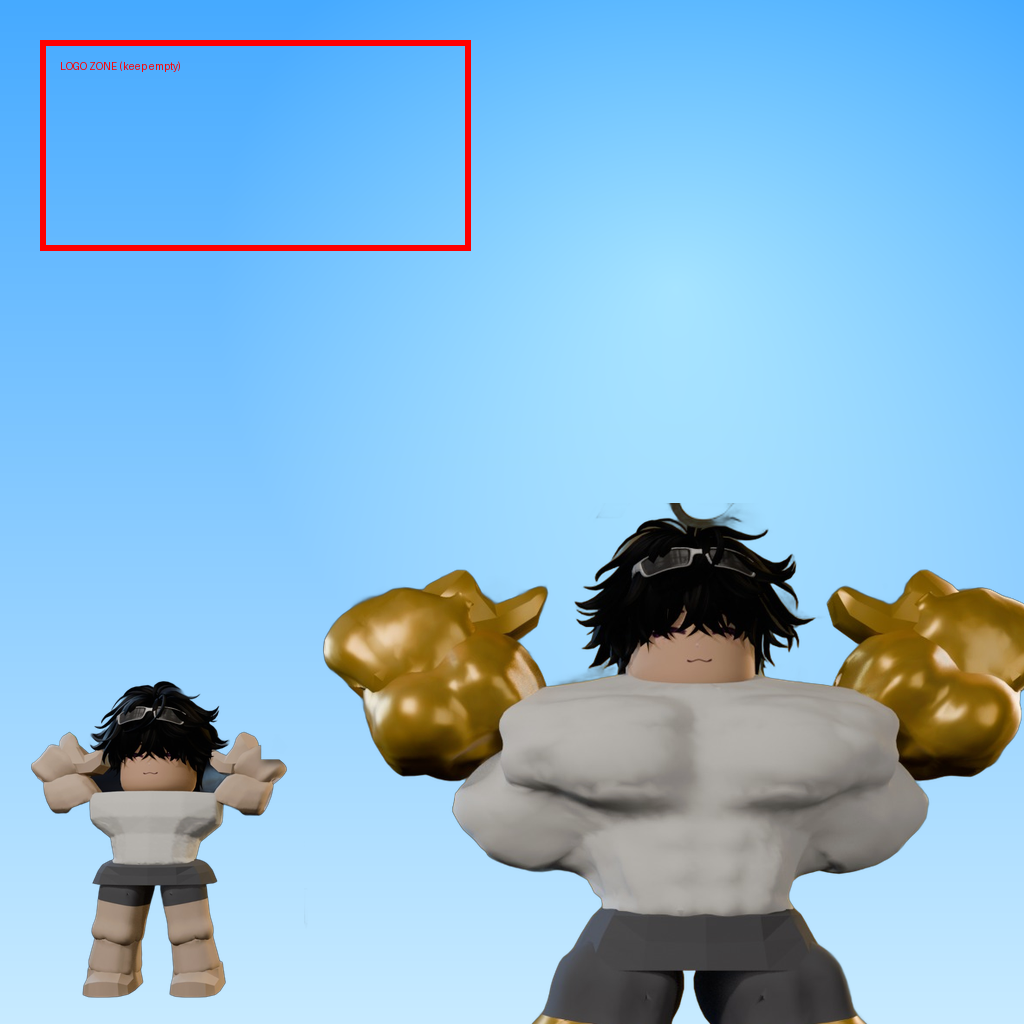
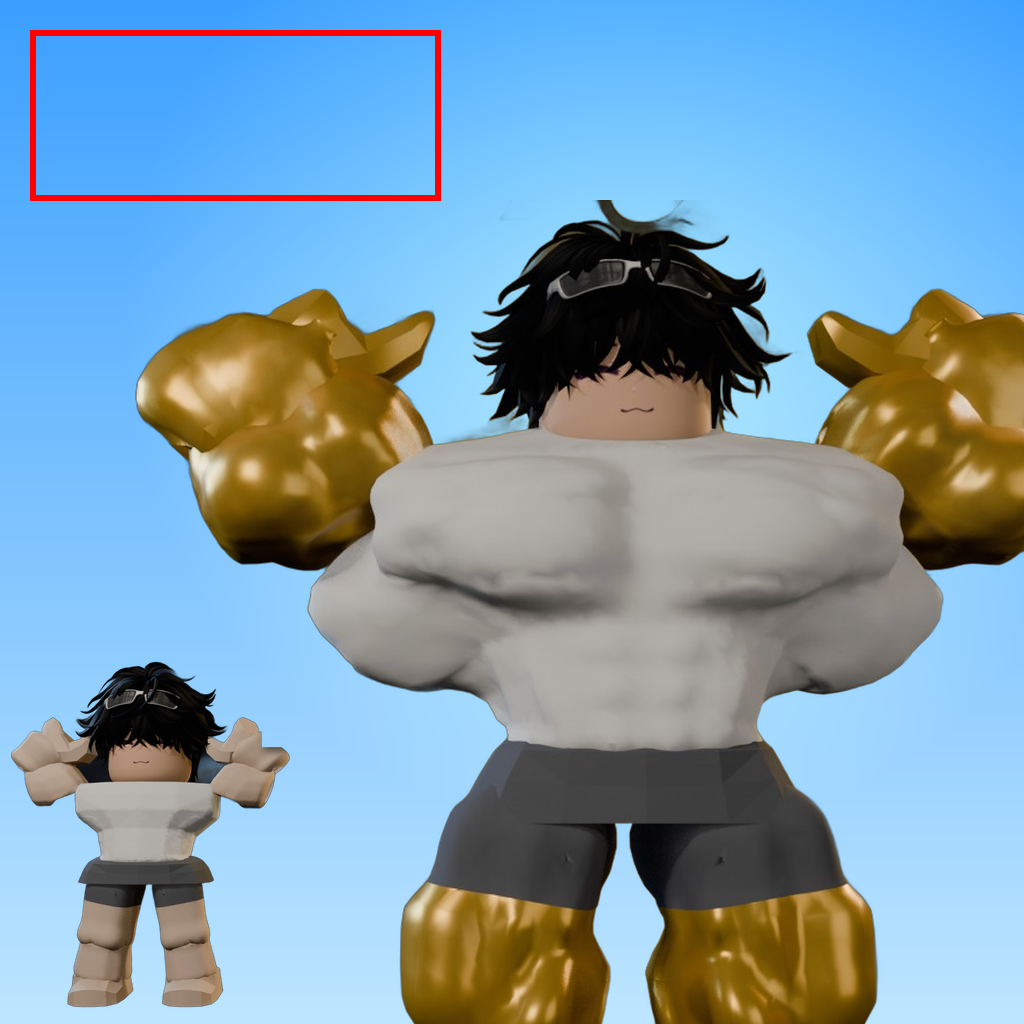
vault backup: 2026-11-27 11:13:55

diff --git a/GYM ARC/Assets/icon_2026-11-27/v3/prompts.md b/GYM ARC/Assets/icon_2026-11-27/v3/prompts.md
@@ -1,0 +1,12 @@
+# GYM ARC icon v3 prompts (27 Nov 2026, after the icon study)
+
+Reference: `layout_mock_normal.png` (our real avatar cut from the 4'0" -> 7'0" render, placed at the exact icon layout).
+
+## ChatGPT, pass 1 (normal)
+Create ONE square image, 1024x1024: a Roblox game icon for a kids' gym game where you grow taller. Use the attached image as the EXACT layout and character reference. Keep every position and size from it: the giant on the right, cropped at the thighs, his head in the upper middle, his fists up at shoulder height in a double-biceps flex; the small version of the same kid bottom-left, full body, about a third of the height; the top-left corner (left 42%, top 20%) stays plain background with nothing in it. Keep the character design exactly: classic blocky Roblox avatar, black messy hair with grey goggles pushed up on the head, white t-shirt, dark grey shorts; the giant's arms and legs are huge glossy GOLD muscles and his chest is a huge muscular white shirt; the small one has normal skin-tone arms. Change ONLY the faces and the finish: make both heads a bit bigger, lift the bangs so the eyes show. The giant has a big proud open-mouth grin with clear eyes, looking at the viewer. The small one looks up at the giant in shock, eyes wide, mouth a round "O". Background: a bright, softly blurred modern gym in sky blue and white, with a warm golden glow behind the giant's head. Finish: Roblox Blender GFX render style, clean toy-plastic shading, crisp silhouettes, a bright white key light on both faces, a thin warm rim light, high saturation, bright and cheerful, nothing dark or gritty. No text, no numbers, no logos, no sunburst rays. NOT a photo.
+
+## ChatGPT, pass 1 (Christmas, same chat)
+Now make the Christmas version of the image you just made, same exact style, same layout, same two characters, same faces and poses. Change only the setting and props, and keep the double-biceps flex. The background becomes a bright snowy outdoor gym at daytime: soft snow falling, warm string lights, a decorated Christmas tree blurred behind, wrapped presents in red, green and gold stacked at the small kid's feet, snow on the ground. Keep it bright and cheerful (sky blue, white, red, green, gold). The top-left corner (left 42%, top 20%) stays plain sky with nothing in it. No hats on the characters. No text, no numbers, no logos. NOT a photo.
+
+## Gemini, pass 2 (each)
+Attach ChatGPT's result. "Keep this exact image: same layout, characters, poses, faces and colours. Make it look like a real hand-made Roblox Blender GFX render, not AI-generated: clean plastic materials, crisp edges, correct hands, no smeared details, no extra limbs, no stray glow. Keep it bright. Keep the top-left corner empty. No text."
